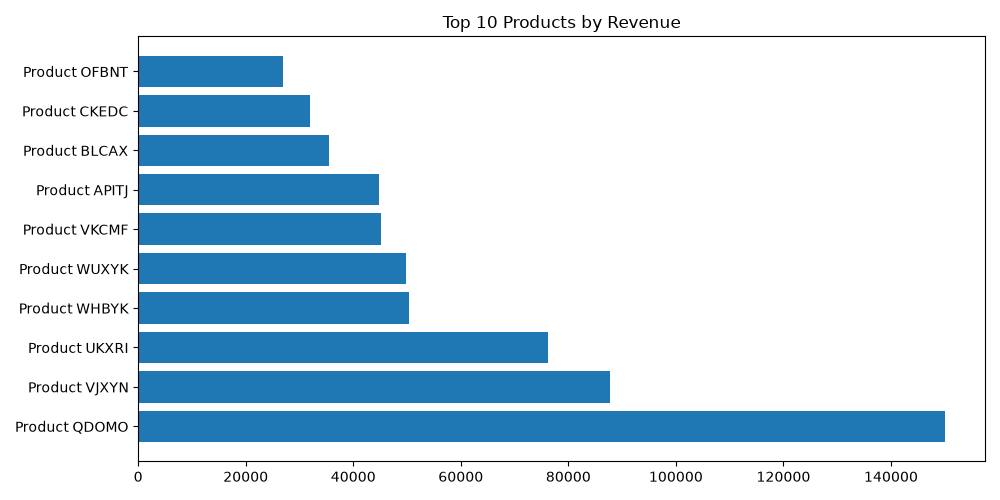
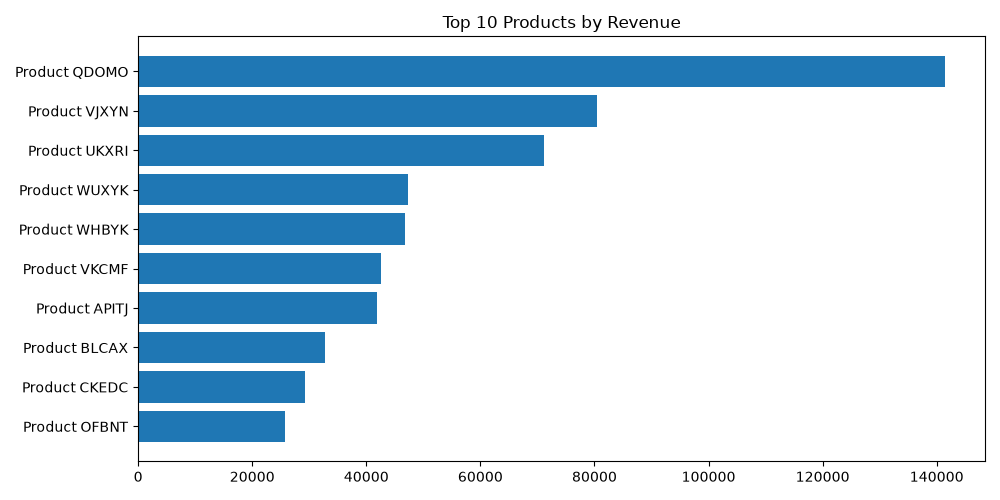
sorted by lowest to highest

diff --git a/src/analytics.py b/src/analytics.py
@@ -53,12 +53,17 @@ def return_rate():
 
 def product_ranking():
     return run_sql("""
-        SELECT product_name, SUM(qty) AS unit_sold,
-            SUM(qty * unit_price) AS revenue
-        FROM order_items
-        GROUP BY product_name
+        SELECT
+            oi.product_name,
+            SUM(oi.qty) AS unit_sold,
+            SUM(oi.line_total) AS revenue
+        FROM order_items AS oi
+        JOIN orders AS o
+            ON o.order_id = oi.order_id
+        WHERE o.status <> 'cancelled'
+        GROUP BY oi.product_name
         ORDER BY revenue DESC;
-        """)
+    """)
 
 
 def revenue_by_country():

diff --git a/src/charts.py b/src/charts.py
@@ -15,7 +15,7 @@ def plot_monthly_revenue():
     plt.close()
 
 def plot_top_products():
-    df = analytics.product_ranking().head(10)
+    df = analytics.product_ranking().head(10).sort_values("revenue", ascending=True)
     plt.figure(figsize=(10, 5))
     plt.barh(df["product_name"], df["revenue"])
     plt.title("Top 10 Products by Revenue")
